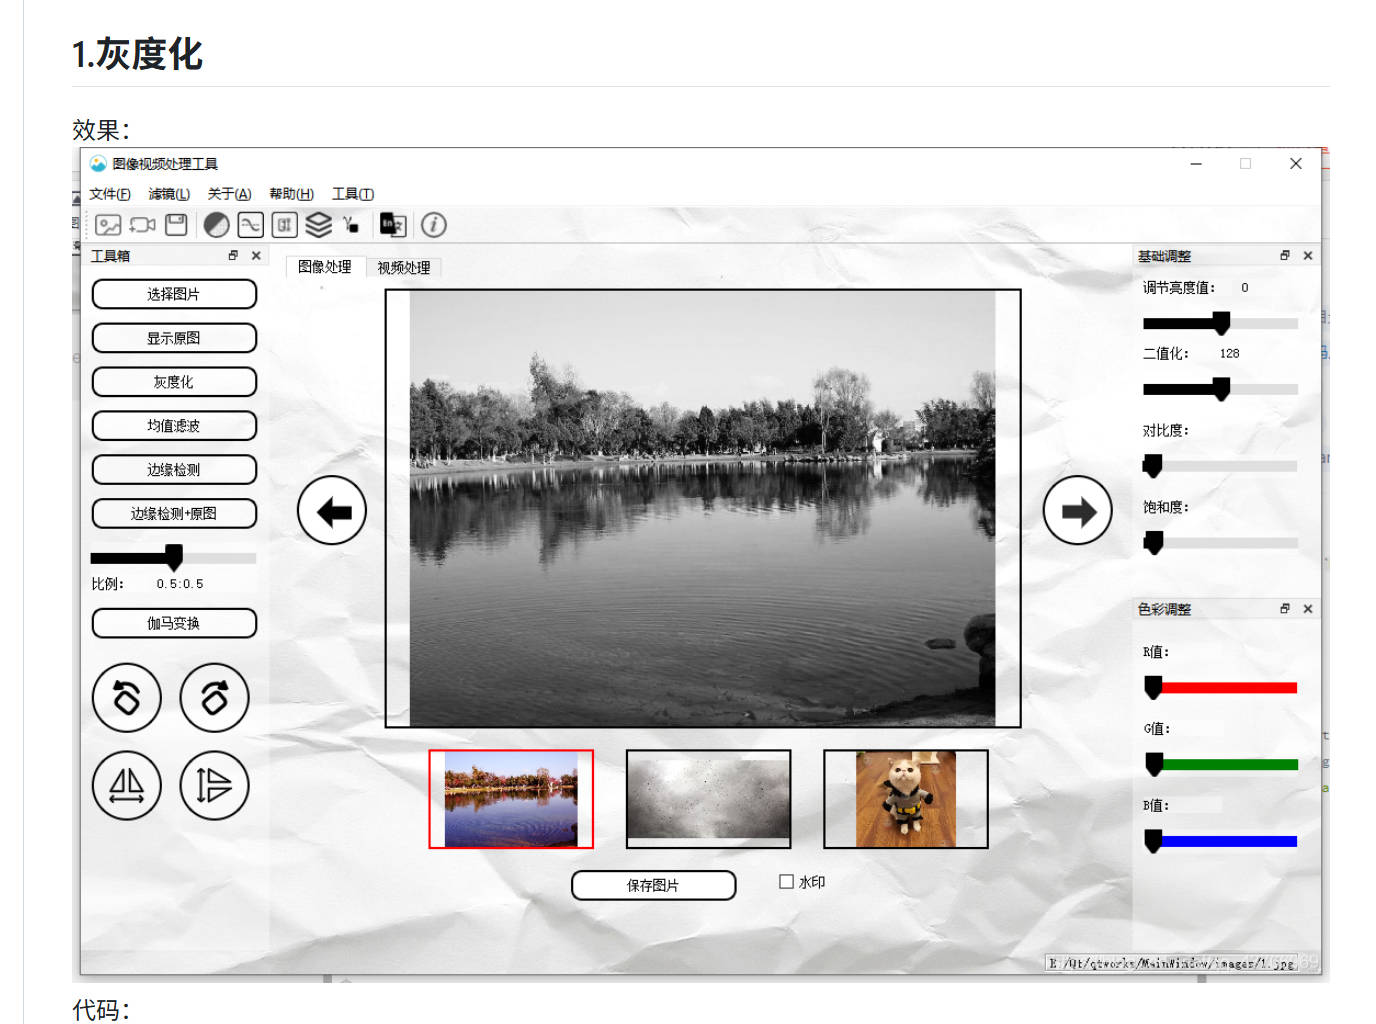
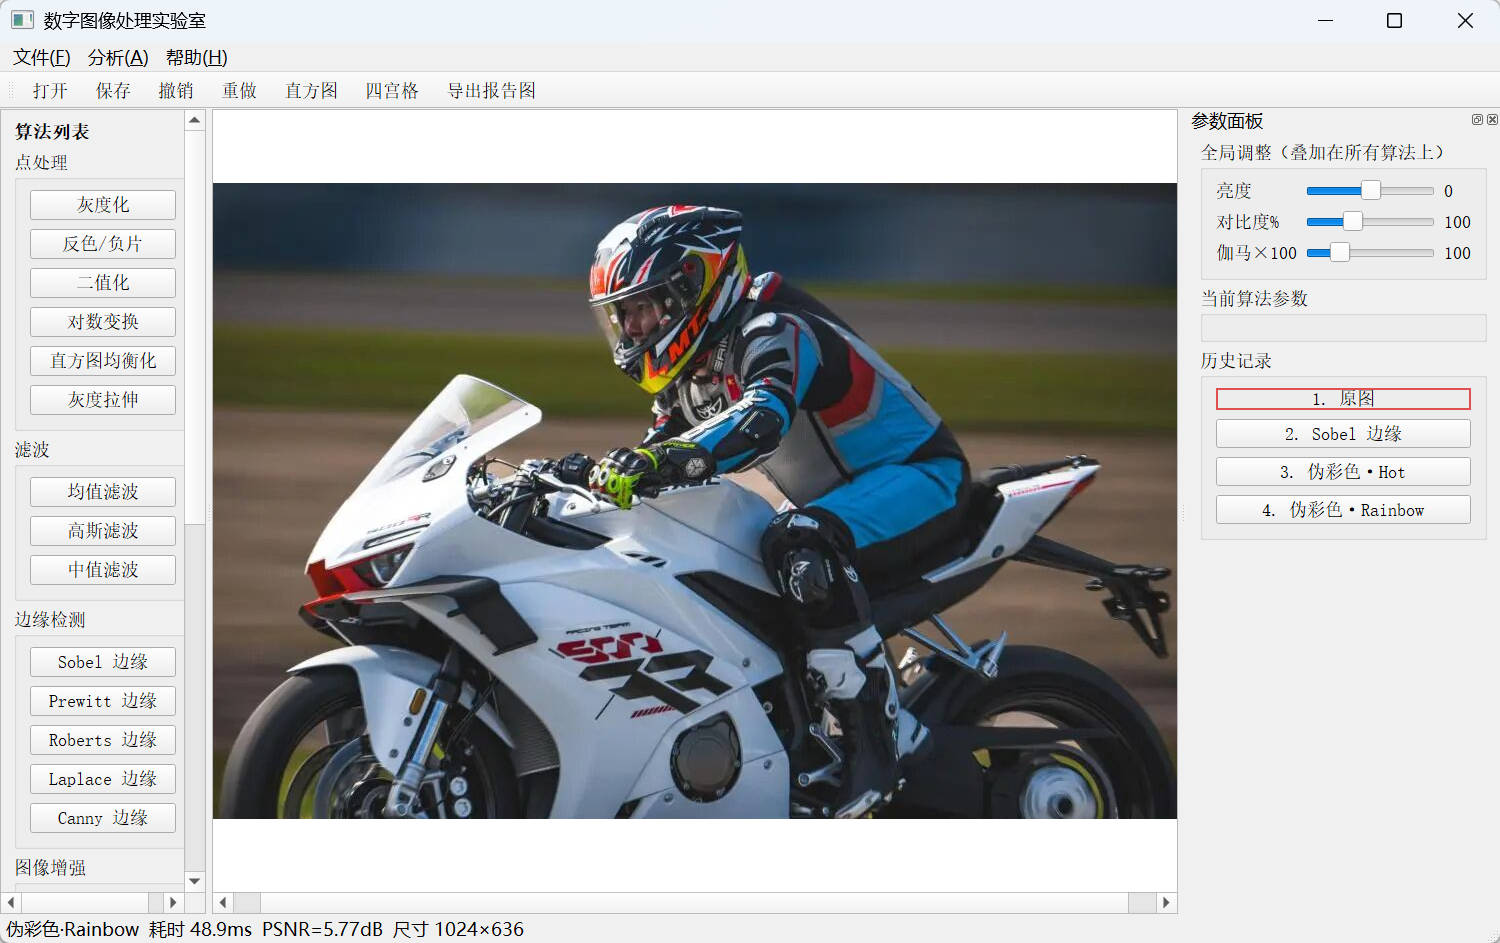
docs: 替换为实际软件运行截图

diff --git a/README.md b/README.md
@@ -7,7 +7,9 @@
 一个基于 **PyQt5 + NumPy + OpenCV** 的桌面端数字图像处理教学与演示工具，同时提供**纯网页版**（双击即用，无需安装）。
 定位是「算法实验室」而非「迷你 Photoshop」——所有经典 DSP 算法一键调用、参数实时可调、支持算法对比和报告图导出，适合课程作业、算法学习和论文实验。
 
-![界面截图](docs/screenshot1.jpg)
+![界面截图1](docs/screenshot1.jpg)
+
+![界面截图2](docs/screenshot2.jpg)
 
 ## 两种使用方式
 
